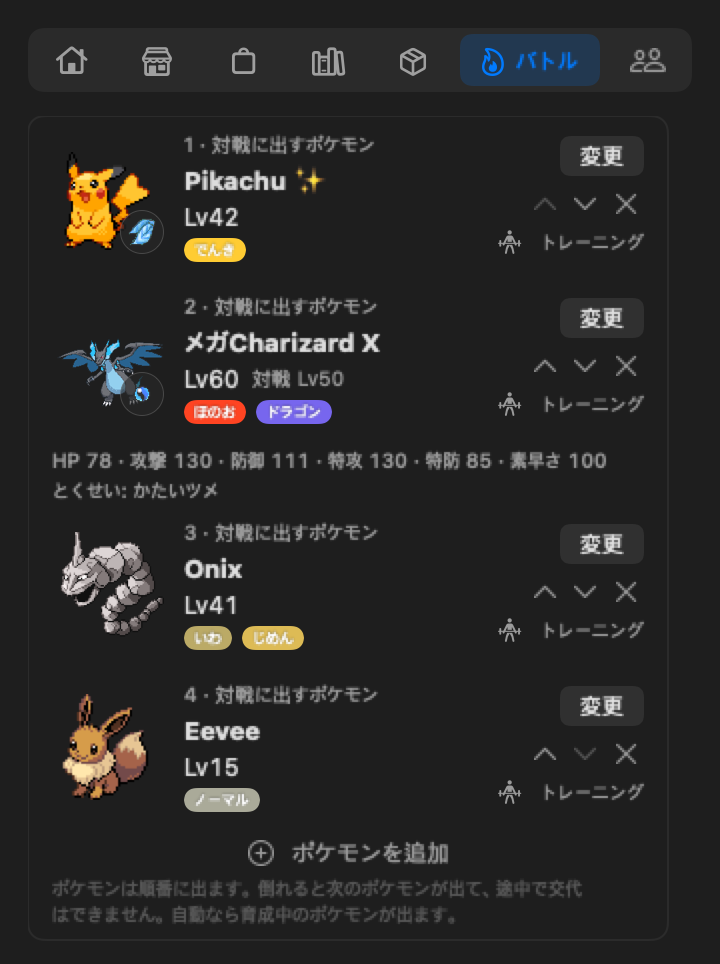
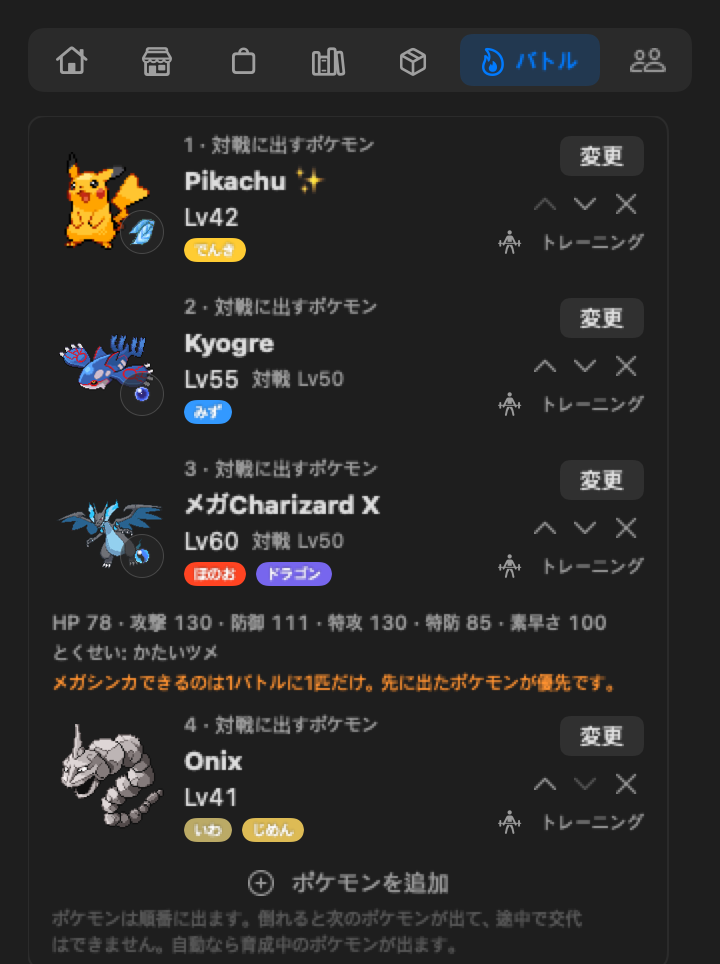
docs(readme): show a Blue Orb Kyogre ahead of the Mega Charizard in the battle shot
The README battle images had no Primal orb holder, so the once-per-battle
note the Mega slot change adds never appeared. The battle shot now uses its
own store and lineup with a Kyogre holding the Blue Orb picked before the
Mega Charizard; every other README shot keeps the shared fixture.

Kyogre (382) joins the generated species table.

diff --git a/Tests/PokeTokenBarTests/ReadmeScreenshotTests.swift b/Tests/PokeTokenBarTests/ReadmeScreenshotTests.swift
@@ -45,6 +45,13 @@ final class ReadmeScreenshotTests: XCTestCase {
         for id in [BoxDexFixture.pikachuID, BoxDexFixture.charizardID, BoxDexFixture.onixID, BoxDexFixture.eeveeID] {
             _ = entry.add(id)
         }
+        let battleSuite = "readme-battle-\(UUID())"
+        let battleDefaults = try XCTUnwrap(UserDefaults(suiteName: battleSuite))
+        defer { battleDefaults.removePersistentDomain(forName: battleSuite) }
+        let battleEntry = BattleEntryStore(defaults: battleDefaults)
+        for id in [BoxDexFixture.pikachuID, Self.kyogreID, BoxDexFixture.charizardID, BoxDexFixture.onixID] {
+            _ = battleEntry.add(id)
+        }
 
         let home = try await sampleUsage(defaults: defaults)
 
@@ -56,7 +63,8 @@ final class ReadmeScreenshotTests: XCTestCase {
                          limitWarning: false, hasUsageData: true)
             try await waitUntil("the raised Pokémon's line to load") { store.currentLine != nil }
 
-            func popover(_ usage: UsageStore = usage, _ configure: (PopoverNavigation) -> Void) -> some View {
+            func popover(_ usage: UsageStore = usage, store: CompanionStore = store, entry: BattleEntryStore = entry,
+                         _ configure: (PopoverNavigation) -> Void) -> some View {
                 let nav = PopoverNavigation()
                 configure(nav)
                 return PopoverView(screenHeight: 5000)
@@ -79,7 +87,15 @@ final class ReadmeScreenshotTests: XCTestCase {
                            "screenshot-pokemon-profile\(suffix)", in: dir, height: 560)
             try await shot(popover { $0.openBoxDetail(id: BoxDexFixture.pikachuID) },
                            "screenshot-exp-share\(suffix)", in: dir, height: 372)
-            try await shot(popover { $0.tab = .battle }, "screenshot-battle\(suffix)", in: dir, height: 482)
+            let (battleStore, battleCleanup) = try BoxDexFixture.makeStore(
+                language: language, mutate: { Self.sample(&$0); Self.addKyogre(&$0) }, defaults: defaults)
+            defer { battleCleanup() }
+            for id in Self.species + [382] { await battleStore.loadPokemonDetails(speciesID: id) }
+            battleStore.update(todayTokensByProvider: ["claude_code": 0], todayDate: "d1", monthTotal: 0, burnTier: .idle,
+                               limitWarning: false, hasUsageData: true)
+            try await waitUntil("the battle store's line to load") { battleStore.currentLine != nil }
+            try await shot(popover(store: battleStore, entry: battleEntry) { $0.tab = .battle },
+                           "screenshot-battle\(suffix)", in: dir, height: 482)
             try await shot(gyms(store: store, uploader: uploader, entry: entry, catalog: catalog),
                            "screenshot-gyms\(suffix)", in: dir, height: nil)
             try await shot(replay(language: language, catalog: catalog), "screenshot-gym-replay\(suffix)", in: dir,
@@ -96,6 +112,18 @@ final class ReadmeScreenshotTests: XCTestCase {
         state.expShareHolders = [BoxDexFixture.pikachuID]
         state.friendEntryIDs = [BoxDexFixture.charizardID, BoxDexFixture.pikachuID]
         state.gymBadges.update("kanto") { $0.gyms = [1, 2, 3] }
+    }
+
+    private static let kyogreID = "kyogre"
+
+    /// A Kyogre holding the Blue Orb, picked ahead of the Mega Charizard in the battle shot.
+    private static func addKyogre(_ state: inout CompanionState) {
+        var profile = PokemonProfile.generate(seed: 382, instanceID: kyogreID)
+        profile.level = 55
+        state.dex.append(DexEntry(id: kyogreID, baseID: 382, finalID: 382, chainOrder: [382], rarity: .legendary,
+                                  caughtAt: Date(timeIntervalSince1970: 1_700_000_500), isShiny: false,
+                                  profile: profile, names: [382: ["ko": "가이오가", "en": "Kyogre"]]))
+        state.heldItems[kyogreID] = ItemKind.blueOrb.rawValue
     }
 
     /// Two weeks of Claude Code and Codex use, ending with a busy today.
@@ -202,7 +230,7 @@ final class ReadmeScreenshotTests: XCTestCase {
     }
 
     private func preloadSprites() async throws {
-        for id in Self.species + ReplayCast.all.map(\.id) {
+        for id in Self.species + [382] + ReplayCast.all.map(\.id) {
             _ = await SpriteLoader.image(speciesID: id)
             _ = await SpriteLoader.image(speciesID: id, back: true)
         }

diff --git a/Tests/PokeTokenBarTests/SpeciesFactsData.swift b/Tests/PokeTokenBarTests/SpeciesFactsData.swift
@@ -163,6 +163,7 @@ extension SpeciesFacts {
         SpeciesFact(id: 267, slug: "beautifly", en: "Beautifly", ko: "뷰티플라이", height: 10, weight: 284, baseExperience: 178, genderRate: 4, types: ["bug", "flying"], stats: [60, 70, 50, 100, 50, 65], captureRate: 45, isLegendary: false, isMythical: false, evolvesFromID: 266),
         SpeciesFact(id: 287, slug: "slakoth", en: "Slakoth", ko: "게을로", height: 8, weight: 240, baseExperience: 56, genderRate: 4, types: ["normal"], stats: [60, 60, 60, 35, 35, 30], captureRate: 255, isLegendary: false, isMythical: false, evolvesFromID: nil),
         SpeciesFact(id: 292, slug: "shedinja", en: "Shedinja", ko: "껍질몬", height: 8, weight: 12, baseExperience: 83, genderRate: -1, types: ["bug", "ghost"], stats: [1, 90, 45, 30, 30, 40], captureRate: 45, isLegendary: false, isMythical: false, evolvesFromID: 290),
+        SpeciesFact(id: 382, slug: "kyogre", en: "Kyogre", ko: "가이오가", height: 45, weight: 3520, baseExperience: 302, genderRate: -1, types: ["water"], stats: [100, 100, 90, 150, 140, 90], captureRate: 3, isLegendary: true, isMythical: false, evolvesFromID: nil),
         SpeciesFact(id: 447, slug: "riolu", en: "Riolu", ko: "리오르", height: 7, weight: 202, baseExperience: 57, genderRate: 1, types: ["fighting"], stats: [40, 70, 40, 35, 40, 60], captureRate: 75, isLegendary: false, isMythical: false, evolvesFromID: nil),
         SpeciesFact(id: 448, slug: "lucario", en: "Lucario", ko: "루카리오", height: 12, weight: 540, baseExperience: 184, genderRate: 1, types: ["fighting", "steel"], stats: [70, 110, 70, 115, 70, 90], captureRate: 45, isLegendary: false, isMythical: false, evolvesFromID: 447),
         SpeciesFact(id: 492, slug: "shaymin-land", en: "Shaymin", ko: "쉐이미", height: 2, weight: 21, baseExperience: 270, genderRate: -1, types: ["grass"], stats: [100, 100, 100, 100, 100, 100], captureRate: 45, isLegendary: false, isMythical: true, evolvesFromID: nil),

diff --git a/scripts/generate-species-facts.py b/scripts/generate-species-facts.py
@@ -23,7 +23,7 @@ STAT_ORDER = ["hp", "attack", "defense", "special-attack", "special-defense", "s
 
 # Gen I, plus the species other fixtures use. Keep ascending.
 SPECIES_IDS = sorted(set(range(1, 152)) | {
-    106, 114, 172, 177, 178, 208, 236, 265, 266, 267, 287, 292, 447, 448, 492, 592, 593, 686, 687, 1017, 1024,
+    106, 114, 172, 177, 178, 208, 236, 265, 266, 267, 287, 292, 382, 447, 448, 492, 592, 593, 686, 687, 1017, 1024,
 })
 
 
